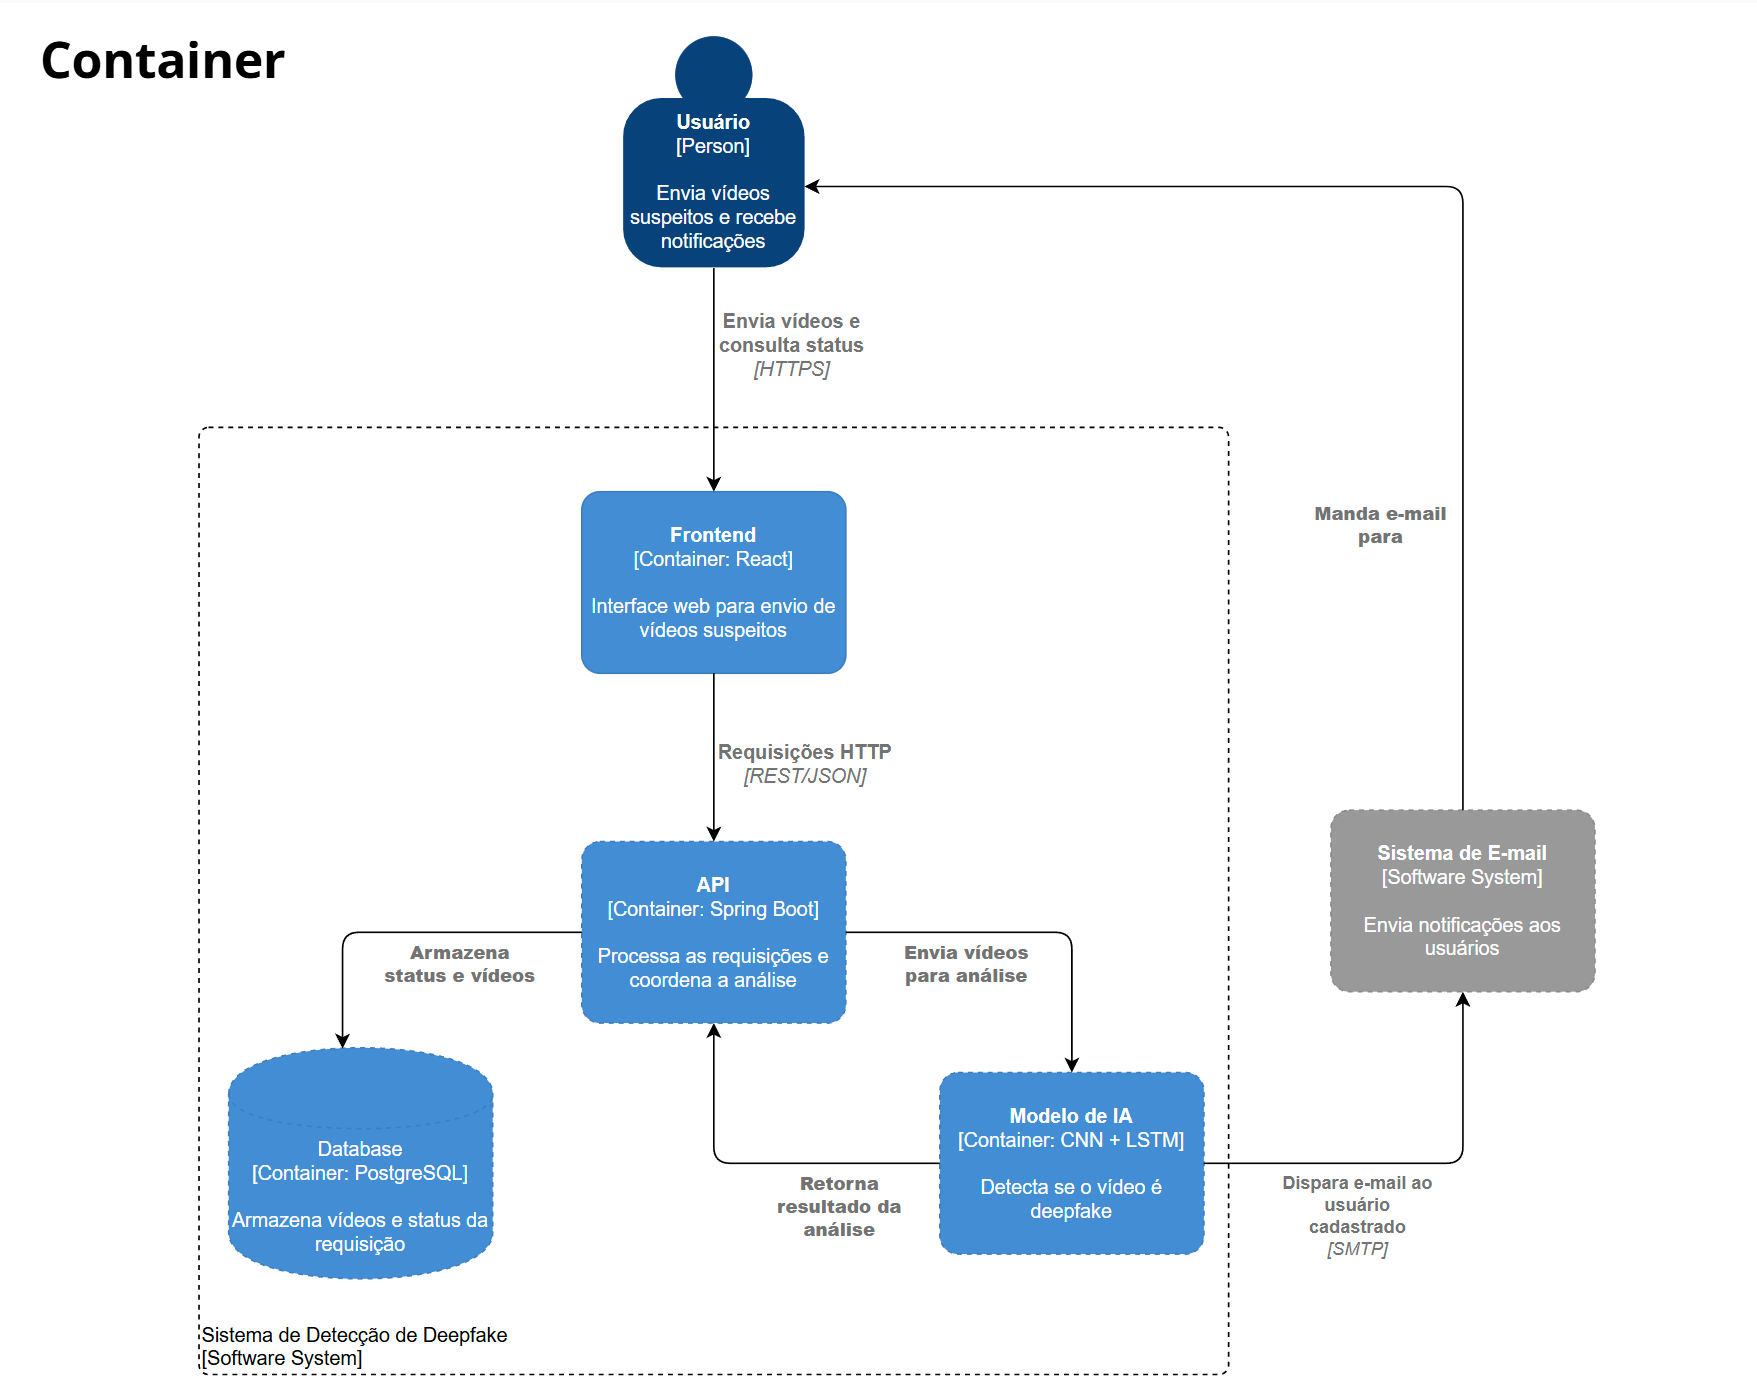
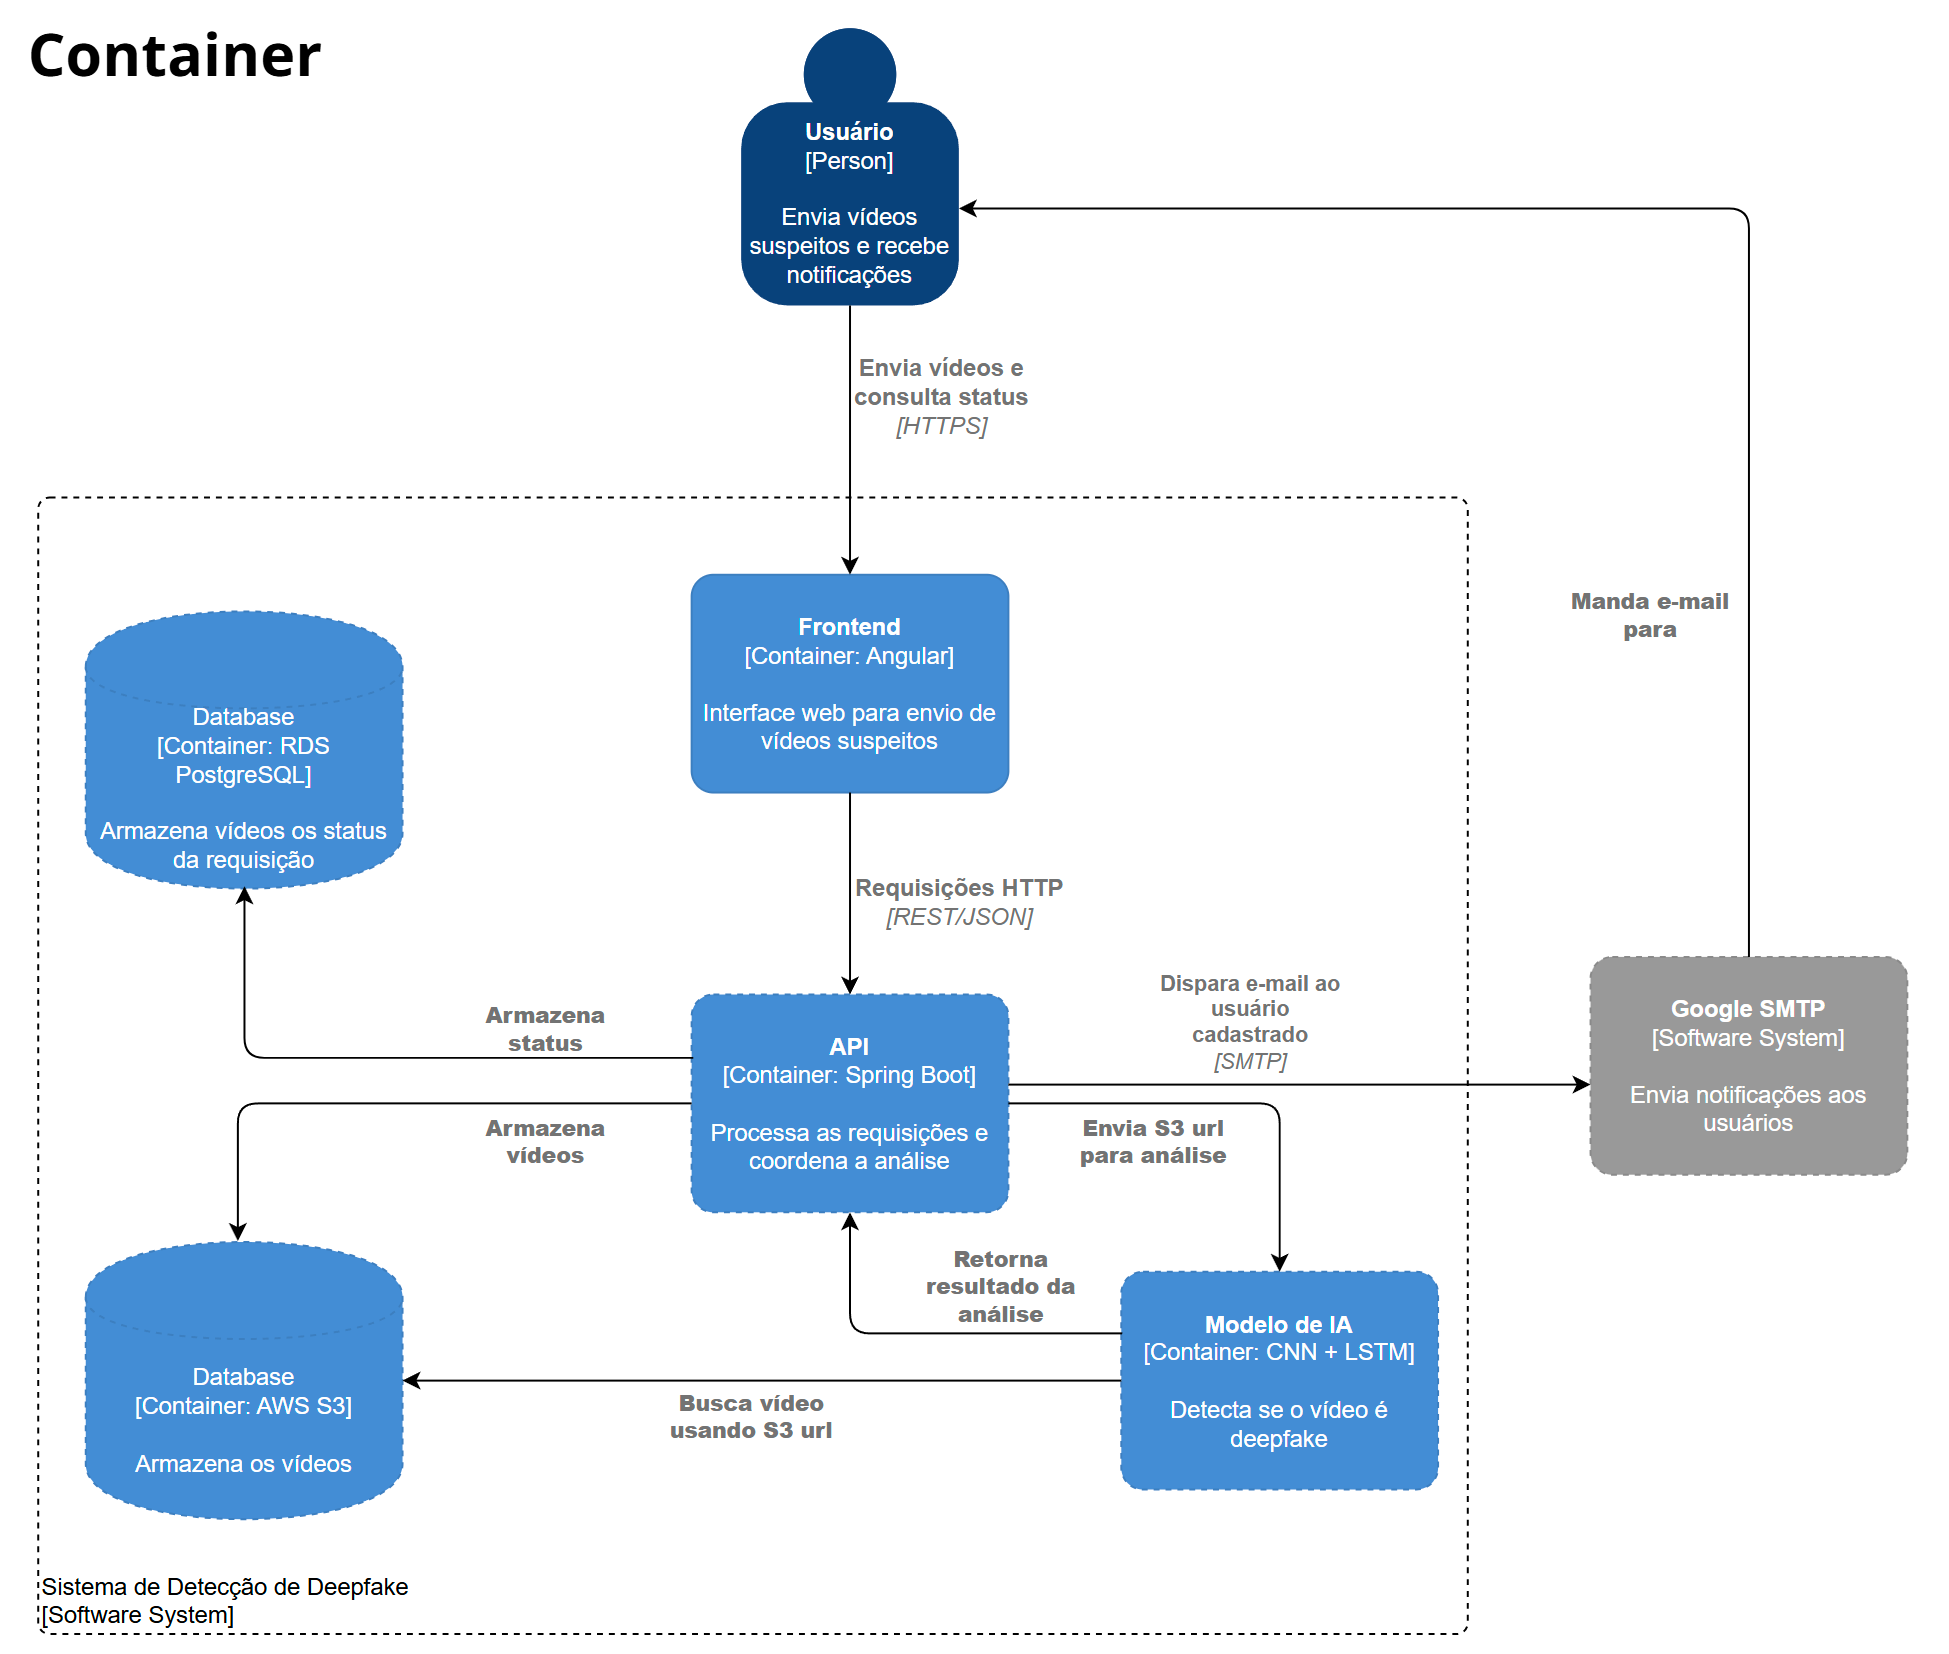
feat: update C4 models

diff --git a/README.md b/README.md
@@ -9,25 +9,26 @@ Wendel Márcio de Oliveira Filho - 202105056
 ```
 
 # Detecção de Vídeos Gerados por Modelos GAN
-* Slides: https://docs.google.com/presentation/d/1DgzvqjwAH4gJurORHiInOSs1ZNeVvWo6Hj6tNCSmbZo/edit#slide=id.p
+
+* Slides: <https://docs.google.com/presentation/d/1DgzvqjwAH4gJurORHiInOSs1ZNeVvWo6Hj6tNCSmbZo/edit#slide=id.p>
   
 ## C4 Model
 
 ### 1. Context
 
 <p align="center">
-    <img src="images/C4_context.jpg" alt="Diagrama de Contexto" width="512"/>
+    <img src="images/C4_context.png" alt="Diagrama de Contexto" width="650"/>
 <p>
 
 ### 2. Containers
 
 <p align="center">
-    <img src="images/C4_container.png" alt="Diagrama de Containers" width="512"/>
+    <img src="images/C4_container.png" alt="Diagrama de Containers" width="650"/>
 <p>
 
 ### 3. Components
 <p align="center">
-    <img src="images/C4_components.jpeg" alt="Diagrama de Containers" width="512"/>
+    <img src="images/C4_components.png" alt="Diagrama de Containers" width="650"/>
 <p>
 
 ### 4. Code
